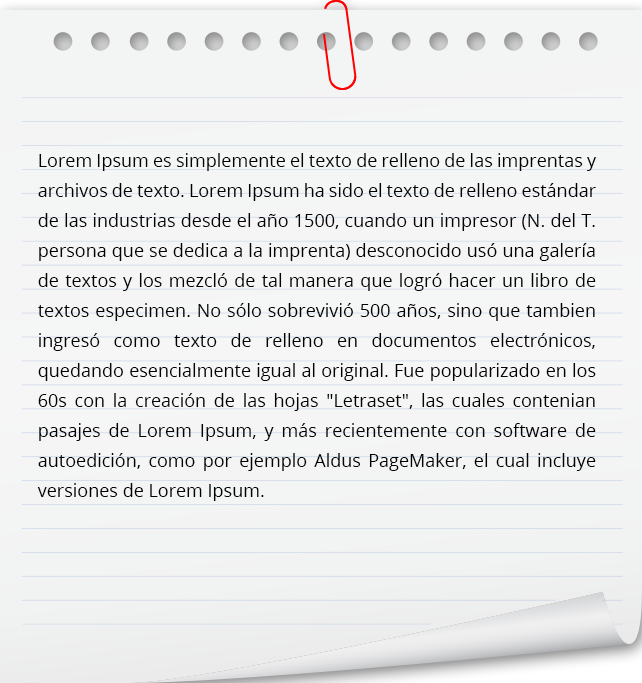
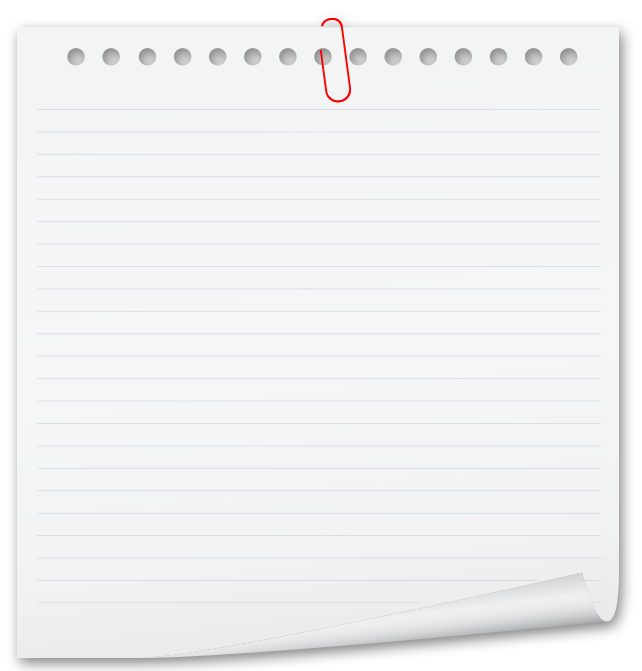
changed resumen.png

diff --git a/app/views/premiacion/resumen.blade.php b/app/views/premiacion/resumen.blade.php
@@ -50,7 +50,7 @@ Resumen
 
 @section('content_center')
 <div class="center_text">
-<img src="{{ URL::to('/img/hoja.png') }}">
+<img src="{{ URL::to('/img/resumen.png') }}">
 </div>
 
 
